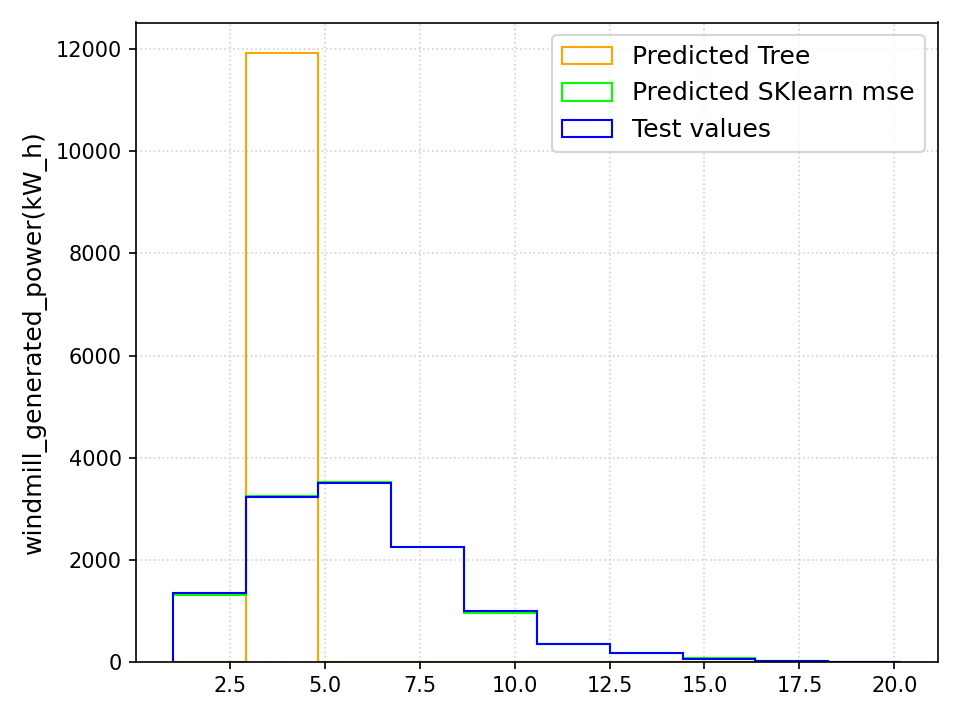
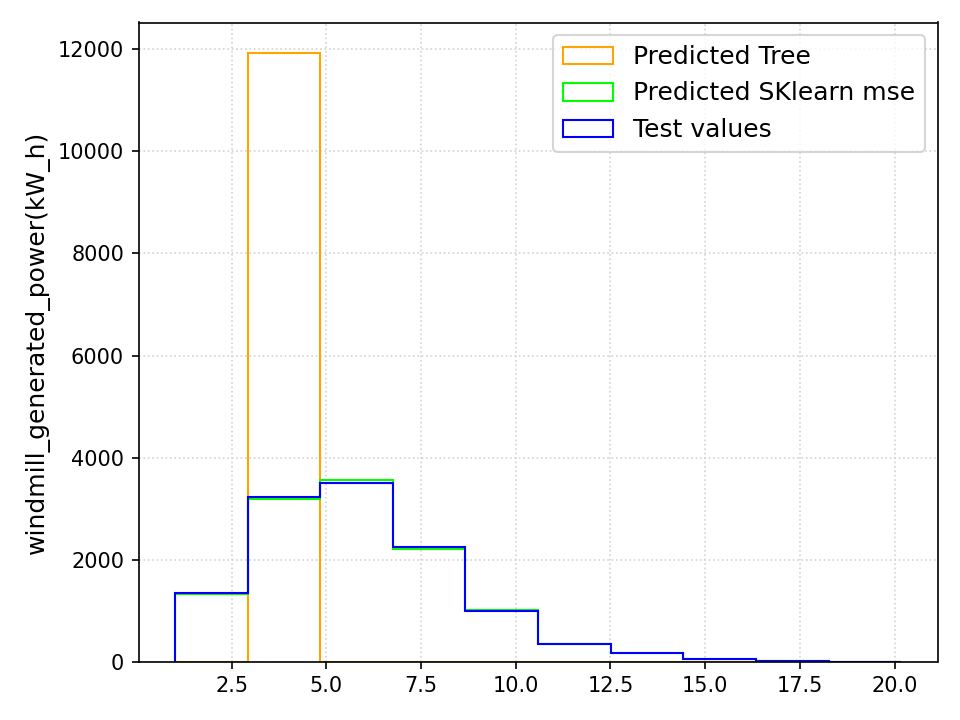
fixed split

diff --git a/ex_2/modelTree.py b/ex_2/modelTree.py
@@ -25,7 +25,7 @@ class Node:
         self.numberOfRows=dataset.shape[0]
         #creating the model and computing the loss of the node
         self.model=util.getLinearClassifier()
-        X_train, X_test, y_train, y_test = train_test_split(dataset, dataset[target], test_size=0.3, shuffle=True)
+        X_train, X_test, y_train, y_test = train_test_split(dataset, dataset[target], test_size=0.3,train_size=0.7,shuffle=True)
         util.fitLinearRegressor(X_train, y_train, self.model)
         self.prediction = util.predict(self.model, X_test)
         self.loss = util.loss(y_test, self.prediction)
@@ -76,13 +76,16 @@ class Root:
         self.split()
 
     def split(self):
-        if (self.numberOfRows < 8 or self.cof < 0.1):
+        if (self.numberOfRows < 10 or self.cof < 0.1):
             return
         else:
            splitAttribute = util.getSplitAttribute(self.dataset, self.target)
            valueAverage = sum(self.dataset[splitAttribute]) / self.numberOfRows
+
+
            left = Node(self.dataset.loc[self.dataset[splitAttribute] < valueAverage], splitAttribute, valueAverage,
                             self.target)
+           print(self.dataset.loc[self.dataset[splitAttribute] >=valueAverage])
            right = Node(self.dataset.loc[self.dataset[splitAttribute] >= valueAverage], splitAttribute,
                              valueAverage, self.target)
            lossSplit = (left.numberOfRows * left.loss )+(right.numberOfRows*right.loss)

diff --git a/ex_2/classifier.py b/ex_2/classifier.py
@@ -163,7 +163,7 @@ data = {'math': {'path': 'data/student-mat.csv',
 
 """ Folds for cross-validation """
 folds = 2
-datasets = ['life']
+datasets = ['wind']
 
 
 
@@ -190,6 +190,8 @@ if __name__ == '__main__':
                 print(' - training ')
                 root = train(trainList[i], target)
                 modelTreeRoot=modelTree.Root(trainList[i],target)
+
+
 
                 #solCol, testSet = prepareTest(testList[i], target) # prepareTest func is useless?
                 y_test, testSet = testList[i][target].values, testList[i]

diff --git a/ex_2/regressionTree.py b/ex_2/regressionTree.py
@@ -30,7 +30,6 @@ class Node:
             return
         else:
             splitAttribute=util.getSplitAttribute(self.dataset,self.target)
-
             valueAverage=sum(self.dataset[splitAttribute])/self.numberOfRows
             left=Node(self.dataset.loc[self.dataset[splitAttribute]<valueAverage],splitAttribute,valueAverage,self.target)
             right=Node(self.dataset.loc[self.dataset[splitAttribute]>valueAverage],splitAttribute,valueAverage,self.target)

diff --git a/ex_2/utilities.py b/ex_2/utilities.py
@@ -89,7 +89,9 @@ def getReductions(dataframe,target):
 
 # the method returns the attribute on which we have to split the dataset
 def getSplitAttribute(dataframe,target):
+    targetIndex= dataframe.columns.get_loc(target)
     reductionList=getReductions(dataframe, target)
+    del reductionList[targetIndex]
     maxReduction=max(reductionList)
     indexMax=reductionList.index(maxReduction)
     return dataframe.columns[indexMax]
